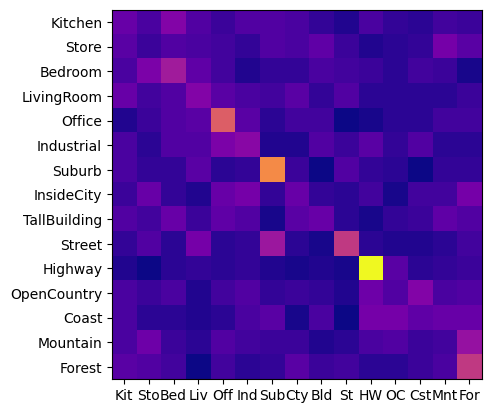
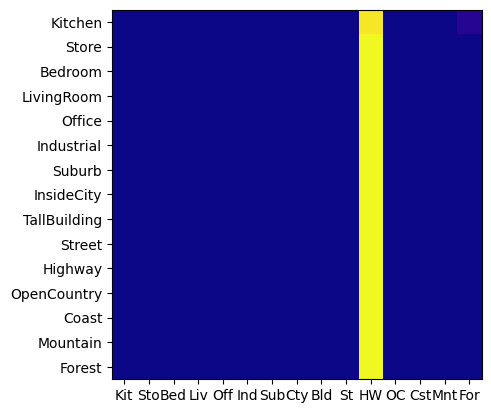
SVMagain

diff --git a/code/results_webpage/index.html b/code/results_webpage/index.html
@@ -36,7 +36,7 @@ h1 {
 <img src="confusion_matrix.png">
 
 <br>
-Accuracy (mean of diagonal of confusion matrix) is 0.197
+Accuracy (mean of diagonal of confusion matrix) is 0.067
 <p>
 
 <table border=0 cellpadding=4 cellspacing=1>
@@ -50,183 +50,183 @@ Accuracy (mean of diagonal of confusion matrix) is 0.197
 </tr>
 <tr>
 <td>Kitchen</td>
-<td>0.110</td>
-<td bgcolor=LightBlue><img src="thumbnails/Kitchen_image_0082.jpg" width=75 height=56></td>
-<td bgcolor=LightBlue><img src="thumbnails/Kitchen_image_0045.jpg" width=75 height=101></td>
-<td bgcolor=LightGreen><img src="thumbnails/Kitchen_image_0048.jpg" width=75 height=56></td>
-<td bgcolor=LightGreen><img src="thumbnails/Kitchen_image_0156.jpg" width=75 height=62></td>
-<td bgcolor=LightCoral><img src="thumbnails/Kitchen_image_0003.jpg" width=75 height=75><br><small>Mountain</small></td>
-<td bgcolor=LightCoral><img src="thumbnails/Kitchen_image_0073.jpg" width=75 height=75><br><small>Forest</small></td>
-<td bgcolor=#FFBB55><img src="thumbnails/Kitchen_image_0031.jpg" width=75 height=100><br><small>OpenCountry</small></td>
-<td bgcolor=#FFBB55><img src="thumbnails/Kitchen_image_0072.jpg" width=75 height=53><br><small>Store</small></td>
+<td>0.000</td>
+<td bgcolor=LightBlue><img src="thumbnails/Kitchen_image_0065.jpg" width=75 height=93></td>
+<td bgcolor=LightBlue><img src="thumbnails/Kitchen_image_0067.jpg" width=75 height=40></td>
+<td bgcolor=LightGreen></td>
+<td bgcolor=LightGreen></td>
+<td bgcolor=LightCoral></td>
+<td bgcolor=LightCoral></td>
+<td bgcolor=#FFBB55><img src="thumbnails/Kitchen_image_0095.jpg" width=75 height=55><br><small>Highway</small></td>
+<td bgcolor=#FFBB55><img src="thumbnails/Kitchen_image_0017.jpg" width=75 height=56><br><small>Highway</small></td>
 </tr>
 <tr>
 <td>Store</td>
-<td>0.050</td>
-<td bgcolor=LightBlue><img src="thumbnails/Store_image_0059.jpg" width=75 height=56></td>
-<td bgcolor=LightBlue><img src="thumbnails/Store_image_0208.jpg" width=75 height=55></td>
-<td bgcolor=LightGreen><img src="thumbnails/Store_image_0043.jpg" width=75 height=56></td>
-<td bgcolor=LightGreen><img src="thumbnails/Store_image_0135.jpg" width=75 height=50></td>
-<td bgcolor=LightCoral><img src="thumbnails/Store_image_0090.jpg" width=75 height=50><br><small>Kitchen</small></td>
-<td bgcolor=LightCoral><img src="thumbnails/Store_image_0043.jpg" width=75 height=56><br><small>Bedroom</small></td>
-<td bgcolor=#FFBB55><img src="thumbnails/Store_image_0056.jpg" width=75 height=56><br><small>Suburb</small></td>
-<td bgcolor=#FFBB55><img src="thumbnails/Store_image_0127.jpg" width=75 height=48><br><small>Forest</small></td>
+<td>0.000</td>
+<td bgcolor=LightBlue><img src="thumbnails/Store_image_0005.jpg" width=75 height=56></td>
+<td bgcolor=LightBlue><img src="thumbnails/Store_image_0129.jpg" width=75 height=94></td>
+<td bgcolor=LightGreen></td>
+<td bgcolor=LightGreen></td>
+<td bgcolor=LightCoral></td>
+<td bgcolor=LightCoral></td>
+<td bgcolor=#FFBB55><img src="thumbnails/Store_image_0087.jpg" width=75 height=53><br><small>Highway</small></td>
+<td bgcolor=#FFBB55><img src="thumbnails/Store_image_0127.jpg" width=75 height=48><br><small>Highway</small></td>
 </tr>
 <tr>
 <td>Bedroom</td>
-<td>0.200</td>
-<td bgcolor=LightBlue><img src="thumbnails/Bedroom_image_0171.jpg" width=75 height=100></td>
-<td bgcolor=LightBlue><img src="thumbnails/Bedroom_image_0046.jpg" width=75 height=56></td>
-<td bgcolor=LightGreen><img src="thumbnails/Bedroom_image_0153.jpg" width=75 height=50></td>
-<td bgcolor=LightGreen><img src="thumbnails/Bedroom_image_0014.jpg" width=75 height=56></td>
-<td bgcolor=LightCoral><img src="thumbnails/Bedroom_image_0134.jpg" width=75 height=100><br><small>Store</small></td>
-<td bgcolor=LightCoral><img src="thumbnails/Bedroom_image_0149.jpg" width=75 height=50><br><small>Suburb</small></td>
-<td bgcolor=#FFBB55><img src="thumbnails/Bedroom_image_0140.jpg" width=75 height=50><br><small>Store</small></td>
-<td bgcolor=#FFBB55><img src="thumbnails/Bedroom_image_0040.jpg" width=75 height=50><br><small>Store</small></td>
+<td>0.000</td>
+<td bgcolor=LightBlue><img src="thumbnails/Bedroom_image_0089.jpg" width=75 height=56></td>
+<td bgcolor=LightBlue><img src="thumbnails/Bedroom_image_0010.jpg" width=75 height=97></td>
+<td bgcolor=LightGreen></td>
+<td bgcolor=LightGreen></td>
+<td bgcolor=LightCoral></td>
+<td bgcolor=LightCoral></td>
+<td bgcolor=#FFBB55><img src="thumbnails/Bedroom_image_0160.jpg" width=75 height=51><br><small>Highway</small></td>
+<td bgcolor=#FFBB55><img src="thumbnails/Bedroom_image_0086.jpg" width=75 height=56><br><small>Highway</small></td>
 </tr>
 <tr>
 <td>LivingRoom</td>
-<td>0.150</td>
-<td bgcolor=LightBlue><img src="thumbnails/LivingRoom_image_0201.jpg" width=75 height=60></td>
-<td bgcolor=LightBlue><img src="thumbnails/LivingRoom_image_0192.jpg" width=75 height=56></td>
-<td bgcolor=LightGreen><img src="thumbnails/LivingRoom_image_0050.jpg" width=75 height=53></td>
-<td bgcolor=LightGreen><img src="thumbnails/LivingRoom_image_0114.jpg" width=75 height=58></td>
-<td bgcolor=LightCoral><img src="thumbnails/LivingRoom_image_0090.jpg" width=75 height=52><br><small>Bedroom</small></td>
-<td bgcolor=LightCoral><img src="thumbnails/LivingRoom_image_0118.jpg" width=75 height=100><br><small>Kitchen</small></td>
-<td bgcolor=#FFBB55><img src="thumbnails/LivingRoom_image_0094.jpg" width=75 height=89><br><small>Office</small></td>
-<td bgcolor=#FFBB55><img src="thumbnails/LivingRoom_image_0100.jpg" width=75 height=51><br><small>Kitchen</small></td>
+<td>0.000</td>
+<td bgcolor=LightBlue><img src="thumbnails/LivingRoom_image_0199.jpg" width=75 height=56></td>
+<td bgcolor=LightBlue><img src="thumbnails/LivingRoom_image_0248.jpg" width=75 height=56></td>
+<td bgcolor=LightGreen></td>
+<td bgcolor=LightGreen></td>
+<td bgcolor=LightCoral></td>
+<td bgcolor=LightCoral></td>
+<td bgcolor=#FFBB55><img src="thumbnails/LivingRoom_image_0055.jpg" width=75 height=56><br><small>Highway</small></td>
+<td bgcolor=#FFBB55><img src="thumbnails/LivingRoom_image_0107.jpg" width=75 height=44><br><small>Highway</small></td>
 </tr>
 <tr>
 <td>Office</td>
-<td>0.330</td>
-<td bgcolor=LightBlue><img src="thumbnails/Office_image_0195.jpg" width=75 height=52></td>
-<td bgcolor=LightBlue><img src="thumbnails/Office_image_0033.jpg" width=75 height=52></td>
-<td bgcolor=LightGreen><img src="thumbnails/Office_image_0146.jpg" width=75 height=47></td>
-<td bgcolor=LightGreen><img src="thumbnails/Office_image_0126.jpg" width=75 height=52></td>
-<td bgcolor=LightCoral><img src="thumbnails/Office_image_0019.jpg" width=75 height=75><br><small>Forest</small></td>
-<td bgcolor=LightCoral><img src="thumbnails/Office_image_0098.jpg" width=75 height=75><br><small>OpenCountry</small></td>
-<td bgcolor=#FFBB55><img src="thumbnails/Office_image_0001.jpg" width=75 height=56><br><small>Store</small></td>
-<td bgcolor=#FFBB55><img src="thumbnails/Office_image_0185.jpg" width=75 height=53><br><small>OpenCountry</small></td>
+<td>0.000</td>
+<td bgcolor=LightBlue><img src="thumbnails/Office_image_0008.jpg" width=75 height=43></td>
+<td bgcolor=LightBlue><img src="thumbnails/Office_image_0197.jpg" width=75 height=47></td>
+<td bgcolor=LightGreen></td>
+<td bgcolor=LightGreen></td>
+<td bgcolor=LightCoral></td>
+<td bgcolor=LightCoral></td>
+<td bgcolor=#FFBB55><img src="thumbnails/Office_image_0131.jpg" width=75 height=48><br><small>Highway</small></td>
+<td bgcolor=#FFBB55><img src="thumbnails/Office_image_0168.jpg" width=75 height=51><br><small>Highway</small></td>
 </tr>
 <tr>
 <td>Industrial</td>
-<td>0.160</td>
-<td bgcolor=LightBlue><img src="thumbnails/Industrial_image_0212.jpg" width=75 height=56></td>
-<td bgcolor=LightBlue><img src="thumbnails/Industrial_image_0050.jpg" width=75 height=56></td>
-<td bgcolor=LightGreen><img src="thumbnails/Industrial_image_0074.jpg" width=75 height=56></td>
-<td bgcolor=LightGreen><img src="thumbnails/Industrial_image_0152.jpg" width=75 height=56></td>
-<td bgcolor=LightCoral><img src="thumbnails/Industrial_image_0115.jpg" width=75 height=75><br><small>Forest</small></td>
-<td bgcolor=LightCoral><img src="thumbnails/Industrial_image_0042.jpg" width=75 height=75><br><small>TallBuilding</small></td>
-<td bgcolor=#FFBB55><img src="thumbnails/Industrial_image_0038.jpg" width=75 height=60><br><small>OpenCountry</small></td>
-<td bgcolor=#FFBB55><img src="thumbnails/Industrial_image_0142.jpg" width=75 height=106><br><small>TallBuilding</small></td>
+<td>0.000</td>
+<td bgcolor=LightBlue><img src="thumbnails/Industrial_image_0070.jpg" width=75 height=48></td>
+<td bgcolor=LightBlue><img src="thumbnails/Industrial_image_0099.jpg" width=75 height=56></td>
+<td bgcolor=LightGreen></td>
+<td bgcolor=LightGreen></td>
+<td bgcolor=LightCoral></td>
+<td bgcolor=LightCoral></td>
+<td bgcolor=#FFBB55><img src="thumbnails/Industrial_image_0139.jpg" width=75 height=103><br><small>Highway</small></td>
+<td bgcolor=#FFBB55><img src="thumbnails/Industrial_image_0055.jpg" width=75 height=56><br><small>Highway</small></td>
 </tr>
 <tr>
 <td>Suburb</td>
-<td>0.410</td>
-<td bgcolor=LightBlue><img src="thumbnails/Suburb_image_0055.jpg" width=75 height=50></td>
-<td bgcolor=LightBlue><img src="thumbnails/Suburb_image_0006.jpg" width=75 height=50></td>
-<td bgcolor=LightGreen><img src="thumbnails/Suburb_image_0065.jpg" width=75 height=50></td>
-<td bgcolor=LightGreen><img src="thumbnails/Suburb_image_0032.jpg" width=75 height=50></td>
-<td bgcolor=LightCoral><img src="thumbnails/Suburb_image_0025.jpg" width=75 height=75><br><small>InsideCity</small></td>
-<td bgcolor=LightCoral><img src="thumbnails/Suburb_image_0102.jpg" width=75 height=75><br><small>Street</small></td>
-<td bgcolor=#FFBB55><img src="thumbnails/Suburb_image_0147.jpg" width=75 height=50><br><small>Office</small></td>
-<td bgcolor=#FFBB55><img src="thumbnails/Suburb_image_0013.jpg" width=75 height=50><br><small>LivingRoom</small></td>
+<td>0.000</td>
+<td bgcolor=LightBlue><img src="thumbnails/Suburb_image_0087.jpg" width=75 height=50></td>
+<td bgcolor=LightBlue><img src="thumbnails/Suburb_image_0159.jpg" width=75 height=50></td>
+<td bgcolor=LightGreen></td>
+<td bgcolor=LightGreen></td>
+<td bgcolor=LightCoral></td>
+<td bgcolor=LightCoral></td>
+<td bgcolor=#FFBB55><img src="thumbnails/Suburb_image_0034.jpg" width=75 height=50><br><small>Highway</small></td>
+<td bgcolor=#FFBB55><img src="thumbnails/Suburb_image_0168.jpg" width=75 height=50><br><small>Highway</small></td>
 </tr>
 <tr>
 <td>InsideCity</td>
-<td>0.110</td>
-<td bgcolor=LightBlue><img src="thumbnails/InsideCity_image_0169.jpg" width=75 height=75></td>
-<td bgcolor=LightBlue><img src="thumbnails/InsideCity_image_0230.jpg" width=75 height=75></td>
-<td bgcolor=LightGreen><img src="thumbnails/InsideCity_image_0103.jpg" width=75 height=75></td>
-<td bgcolor=LightGreen><img src="thumbnails/InsideCity_image_0038.jpg" width=75 height=75></td>
-<td bgcolor=LightCoral><img src="thumbnails/InsideCity_image_0065.jpg" width=75 height=55><br><small>Office</small></td>
-<td bgcolor=LightCoral><img src="thumbnails/InsideCity_image_0134.jpg" width=75 height=50><br><small>Kitchen</small></td>
-<td bgcolor=#FFBB55><img src="thumbnails/InsideCity_image_0019.jpg" width=75 height=75><br><small>Store</small></td>
-<td bgcolor=#FFBB55><img src="thumbnails/InsideCity_image_0012.jpg" width=75 height=75><br><small>Office</small></td>
+<td>0.000</td>
+<td bgcolor=LightBlue><img src="thumbnails/InsideCity_image_0030.jpg" width=75 height=75></td>
+<td bgcolor=LightBlue><img src="thumbnails/InsideCity_image_0135.jpg" width=75 height=75></td>
+<td bgcolor=LightGreen></td>
+<td bgcolor=LightGreen></td>
+<td bgcolor=LightCoral></td>
+<td bgcolor=LightCoral></td>
+<td bgcolor=#FFBB55><img src="thumbnails/InsideCity_image_0021.jpg" width=75 height=75><br><small>Highway</small></td>
+<td bgcolor=#FFBB55><img src="thumbnails/InsideCity_image_0031.jpg" width=75 height=75><br><small>Highway</small></td>
 </tr>
 <tr>
 <td>TallBuilding</td>
-<td>0.110</td>
-<td bgcolor=LightBlue><img src="thumbnails/TallBuilding_image_0071.jpg" width=75 height=75></td>
-<td bgcolor=LightBlue><img src="thumbnails/TallBuilding_image_0178.jpg" width=75 height=75></td>
-<td bgcolor=LightGreen><img src="thumbnails/TallBuilding_image_0127.jpg" width=75 height=75></td>
-<td bgcolor=LightGreen><img src="thumbnails/TallBuilding_image_0067.jpg" width=75 height=75></td>
-<td bgcolor=LightCoral><img src="thumbnails/TallBuilding_image_0114.jpg" width=75 height=56><br><small>Store</small></td>
-<td bgcolor=LightCoral><img src="thumbnails/TallBuilding_image_0049.jpg" width=75 height=57><br><small>Industrial</small></td>
-<td bgcolor=#FFBB55><img src="thumbnails/TallBuilding_image_0105.jpg" width=75 height=75><br><small>Industrial</small></td>
-<td bgcolor=#FFBB55><img src="thumbnails/TallBuilding_image_0006.jpg" width=75 height=75><br><small>Forest</small></td>
+<td>0.000</td>
+<td bgcolor=LightBlue><img src="thumbnails/TallBuilding_image_0012.jpg" width=75 height=75></td>
+<td bgcolor=LightBlue><img src="thumbnails/TallBuilding_image_0110.jpg" width=75 height=75></td>
+<td bgcolor=LightGreen></td>
+<td bgcolor=LightGreen></td>
+<td bgcolor=LightCoral></td>
+<td bgcolor=LightCoral></td>
+<td bgcolor=#FFBB55><img src="thumbnails/TallBuilding_image_0107.jpg" width=75 height=75><br><small>Highway</small></td>
+<td bgcolor=#FFBB55><img src="thumbnails/TallBuilding_image_0077.jpg" width=75 height=75><br><small>Highway</small></td>
 </tr>
 <tr>
 <td>Street</td>
-<td>0.260</td>
-<td bgcolor=LightBlue><img src="thumbnails/Street_image_0096.jpg" width=75 height=75></td>
-<td bgcolor=LightBlue><img src="thumbnails/Street_image_0270.jpg" width=75 height=75></td>
-<td bgcolor=LightGreen><img src="thumbnails/Street_image_0047.jpg" width=75 height=75></td>
-<td bgcolor=LightGreen><img src="thumbnails/Street_image_0050.jpg" width=75 height=75></td>
-<td bgcolor=LightCoral><img src="thumbnails/Street_image_0156.jpg" width=75 height=57><br><small>Bedroom</small></td>
-<td bgcolor=LightCoral><img src="thumbnails/Street_image_0075.jpg" width=75 height=75><br><small>Mountain</small></td>
-<td bgcolor=#FFBB55><img src="thumbnails/Street_image_0024.jpg" width=75 height=75><br><small>Bedroom</small></td>
-<td bgcolor=#FFBB55><img src="thumbnails/Street_image_0102.jpg" width=75 height=75><br><small>Suburb</small></td>
+<td>0.000</td>
+<td bgcolor=LightBlue><img src="thumbnails/Street_image_0099.jpg" width=75 height=75></td>
+<td bgcolor=LightBlue><img src="thumbnails/Street_image_0028.jpg" width=75 height=75></td>
+<td bgcolor=LightGreen></td>
+<td bgcolor=LightGreen></td>
+<td bgcolor=LightCoral></td>
+<td bgcolor=LightCoral></td>
+<td bgcolor=#FFBB55><img src="thumbnails/Street_image_0050.jpg" width=75 height=75><br><small>Highway</small></td>
+<td bgcolor=#FFBB55><img src="thumbnails/Street_image_0084.jpg" width=75 height=75><br><small>Highway</small></td>
 </tr>
 <tr>
 <td>Highway</td>
-<td>0.570</td>
-<td bgcolor=LightBlue><img src="thumbnails/Highway_image_0129.jpg" width=75 height=75></td>
-<td bgcolor=LightBlue><img src="thumbnails/Highway_image_0009.jpg" width=75 height=75></td>
-<td bgcolor=LightGreen><img src="thumbnails/Highway_image_0155.jpg" width=75 height=75></td>
-<td bgcolor=LightGreen><img src="thumbnails/Highway_image_0096.jpg" width=75 height=75></td>
-<td bgcolor=LightCoral><img src="thumbnails/Highway_image_0008.jpg" width=75 height=75><br><small>OpenCountry</small></td>
-<td bgcolor=LightCoral><img src="thumbnails/Highway_image_0108.jpg" width=75 height=75><br><small>Mountain</small></td>
-<td bgcolor=#FFBB55><img src="thumbnails/Highway_image_0032.jpg" width=75 height=75><br><small>Mountain</small></td>
-<td bgcolor=#FFBB55><img src="thumbnails/Highway_image_0101.jpg" width=75 height=75><br><small>OpenCountry</small></td>
+<td>1.000</td>
+<td bgcolor=LightBlue><img src="thumbnails/Highway_image_0217.jpg" width=75 height=75></td>
+<td bgcolor=LightBlue><img src="thumbnails/Highway_image_0154.jpg" width=75 height=75></td>
+<td bgcolor=LightGreen><img src="thumbnails/Highway_image_0036.jpg" width=75 height=75></td>
+<td bgcolor=LightGreen><img src="thumbnails/Highway_image_0105.jpg" width=75 height=75></td>
+<td bgcolor=LightCoral><img src="thumbnails/Highway_image_0109.jpg" width=75 height=75><br><small>Street</small></td>
+<td bgcolor=LightCoral><img src="thumbnails/Highway_image_0004.jpg" width=75 height=48><br><small>Office</small></td>
+<td bgcolor=#FFBB55></td>
+<td bgcolor=#FFBB55></td>
 </tr>
 <tr>
 <td>OpenCountry</td>
-<td>0.080</td>
-<td bgcolor=LightBlue><img src="thumbnails/OpenCountry_image_0207.jpg" width=75 height=75></td>
-<td bgcolor=LightBlue><img src="thumbnails/OpenCountry_image_0367.jpg" width=75 height=75></td>
-<td bgcolor=LightGreen><img src="thumbnails/OpenCountry_image_0028.jpg" width=75 height=75></td>
-<td bgcolor=LightGreen><img src="thumbnails/OpenCountry_image_0068.jpg" width=75 height=75></td>
-<td bgcolor=LightCoral><img src="thumbnails/OpenCountry_image_0033.jpg" width=75 height=56><br><small>Bedroom</small></td>
-<td bgcolor=LightCoral><img src="thumbnails/OpenCountry_image_0083.jpg" width=75 height=75><br><small>Mountain</small></td>
-<td bgcolor=#FFBB55><img src="thumbnails/OpenCountry_image_0030.jpg" width=75 height=75><br><small>Highway</small></td>
-<td bgcolor=#FFBB55><img src="thumbnails/OpenCountry_image_0051.jpg" width=75 height=75><br><small>Coast</small></td>
+<td>0.000</td>
+<td bgcolor=LightBlue><img src="thumbnails/OpenCountry_image_0217.jpg" width=75 height=75></td>
+<td bgcolor=LightBlue><img src="thumbnails/OpenCountry_image_0190.jpg" width=75 height=75></td>
+<td bgcolor=LightGreen></td>
+<td bgcolor=LightGreen></td>
+<td bgcolor=LightCoral></td>
+<td bgcolor=LightCoral></td>
+<td bgcolor=#FFBB55><img src="thumbnails/OpenCountry_image_0029.jpg" width=75 height=75><br><small>Highway</small></td>
+<td bgcolor=#FFBB55><img src="thumbnails/OpenCountry_image_0097.jpg" width=75 height=75><br><small>Highway</small></td>
 </tr>
 <tr>
 <td>Coast</td>
-<td>0.100</td>
-<td bgcolor=LightBlue><img src="thumbnails/Coast_image_0353.jpg" width=75 height=75></td>
-<td bgcolor=LightBlue><img src="thumbnails/Coast_image_0038.jpg" width=75 height=75></td>
-<td bgcolor=LightGreen><img src="thumbnails/Coast_image_0075.jpg" width=75 height=75></td>
-<td bgcolor=LightGreen><img src="thumbnails/Coast_image_0046.jpg" width=75 height=75></td>
-<td bgcolor=LightCoral><img src="thumbnails/Coast_image_0014.jpg" width=75 height=75><br><small>OpenCountry</small></td>
-<td bgcolor=LightCoral><img src="thumbnails/Coast_image_0034.jpg" width=75 height=56><br><small>Bedroom</small></td>
-<td bgcolor=#FFBB55><img src="thumbnails/Coast_image_0083.jpg" width=75 height=75><br><small>Industrial</small></td>
-<td bgcolor=#FFBB55><img src="thumbnails/Coast_image_0035.jpg" width=75 height=75><br><small>Mountain</small></td>
+<td>0.000</td>
+<td bgcolor=LightBlue><img src="thumbnails/Coast_image_0317.jpg" width=75 height=75></td>
+<td bgcolor=LightBlue><img src="thumbnails/Coast_image_0333.jpg" width=75 height=75></td>
+<td bgcolor=LightGreen></td>
+<td bgcolor=LightGreen></td>
+<td bgcolor=LightCoral></td>
+<td bgcolor=LightCoral></td>
+<td bgcolor=#FFBB55><img src="thumbnails/Coast_image_0016.jpg" width=75 height=75><br><small>Highway</small></td>
+<td bgcolor=#FFBB55><img src="thumbnails/Coast_image_0086.jpg" width=75 height=75><br><small>Highway</small></td>
 </tr>
 <tr>
 <td>Mountain</td>
-<td>0.060</td>
-<td bgcolor=LightBlue><img src="thumbnails/Mountain_image_0099.jpg" width=75 height=75></td>
-<td bgcolor=LightBlue><img src="thumbnails/Mountain_image_0238.jpg" width=75 height=75></td>
-<td bgcolor=LightGreen><img src="thumbnails/Mountain_image_0109.jpg" width=75 height=75></td>
-<td bgcolor=LightGreen><img src="thumbnails/Mountain_image_0038.jpg" width=75 height=75></td>
-<td bgcolor=LightCoral><img src="thumbnails/Mountain_image_0017.jpg" width=75 height=75><br><small>Highway</small></td>
-<td bgcolor=LightCoral><img src="thumbnails/Mountain_image_0036.jpg" width=75 height=56><br><small>Store</small></td>
-<td bgcolor=#FFBB55><img src="thumbnails/Mountain_image_0101.jpg" width=75 height=75><br><small>Kitchen</small></td>
-<td bgcolor=#FFBB55><img src="thumbnails/Mountain_image_0096.jpg" width=75 height=75><br><small>Store</small></td>
+<td>0.000</td>
+<td bgcolor=LightBlue><img src="thumbnails/Mountain_image_0198.jpg" width=75 height=75></td>
+<td bgcolor=LightBlue><img src="thumbnails/Mountain_image_0274.jpg" width=75 height=75></td>
+<td bgcolor=LightGreen></td>
+<td bgcolor=LightGreen></td>
+<td bgcolor=LightCoral></td>
+<td bgcolor=LightCoral></td>
+<td bgcolor=#FFBB55><img src="thumbnails/Mountain_image_0113.jpg" width=75 height=75><br><small>Highway</small></td>
+<td bgcolor=#FFBB55><img src="thumbnails/Mountain_image_0089.jpg" width=75 height=75><br><small>Highway</small></td>
 </tr>
 <tr>
 <td>Forest</td>
-<td>0.260</td>
-<td bgcolor=LightBlue><img src="thumbnails/Forest_image_0266.jpg" width=75 height=75></td>
-<td bgcolor=LightBlue><img src="thumbnails/Forest_image_0006.jpg" width=75 height=75></td>
-<td bgcolor=LightGreen><img src="thumbnails/Forest_image_0025.jpg" width=75 height=75></td>
-<td bgcolor=LightGreen><img src="thumbnails/Forest_image_0001.jpg" width=75 height=75></td>
-<td bgcolor=LightCoral><img src="thumbnails/Forest_image_0002.jpg" width=75 height=75><br><small>Highway</small></td>
-<td bgcolor=LightCoral><img src="thumbnails/Forest_image_0073.jpg" width=75 height=75><br><small>Coast</small></td>
-<td bgcolor=#FFBB55><img src="thumbnails/Forest_image_0053.jpg" width=75 height=75><br><small>Bedroom</small></td>
-<td bgcolor=#FFBB55><img src="thumbnails/Forest_image_0139.jpg" width=75 height=75><br><small>Street</small></td>
+<td>0.000</td>
+<td bgcolor=LightBlue><img src="thumbnails/Forest_image_0097.jpg" width=75 height=75></td>
+<td bgcolor=LightBlue><img src="thumbnails/Forest_image_0193.jpg" width=75 height=75></td>
+<td bgcolor=LightGreen></td>
+<td bgcolor=LightGreen></td>
+<td bgcolor=LightCoral><img src="thumbnails/Forest_image_0012.jpg" width=75 height=56><br><small>Kitchen</small></td>
+<td bgcolor=LightCoral><img src="thumbnails/Forest_image_0009.jpg" width=75 height=56><br><small>Kitchen</small></td>
+<td bgcolor=#FFBB55><img src="thumbnails/Forest_image_0022.jpg" width=75 height=75><br><small>Highway</small></td>
+<td bgcolor=#FFBB55><img src="thumbnails/Forest_image_0056.jpg" width=75 height=75><br><small>Highway</small></td>
 </tr>
 <tr>
 <th>Category name</th>

diff --git a/code/student.py b/code/student.py
@@ -313,7 +313,7 @@ def nearest_neighbor_classify(train_image_feats, train_labels, test_image_feats,
         scipy.spatial.distance.cdist, np.argsort, scipy.stats.mode
     '''
 
-    k = 20
+    k = 100
     
     #TODO:
     # 1) Find the k closest training features to each test image feature by some distance, e.g., Euclidean (L2)
